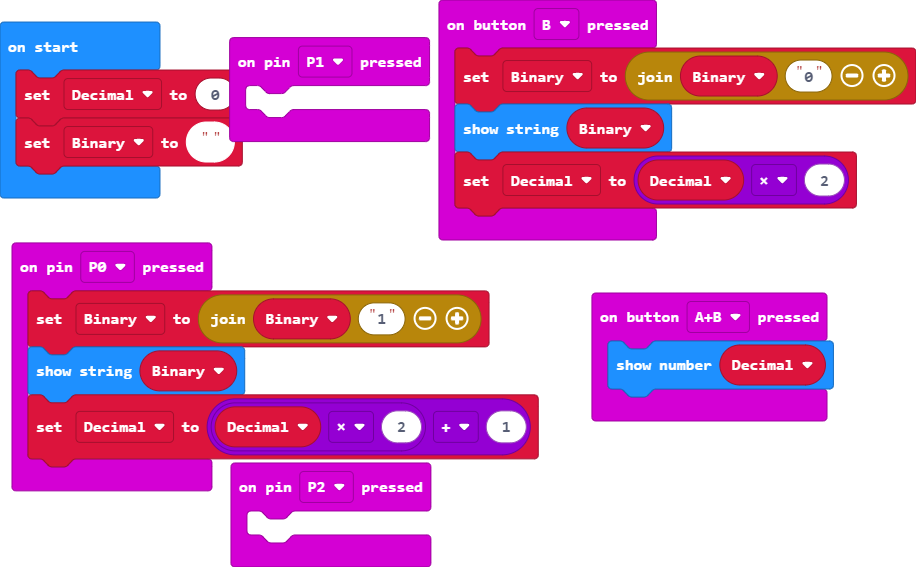
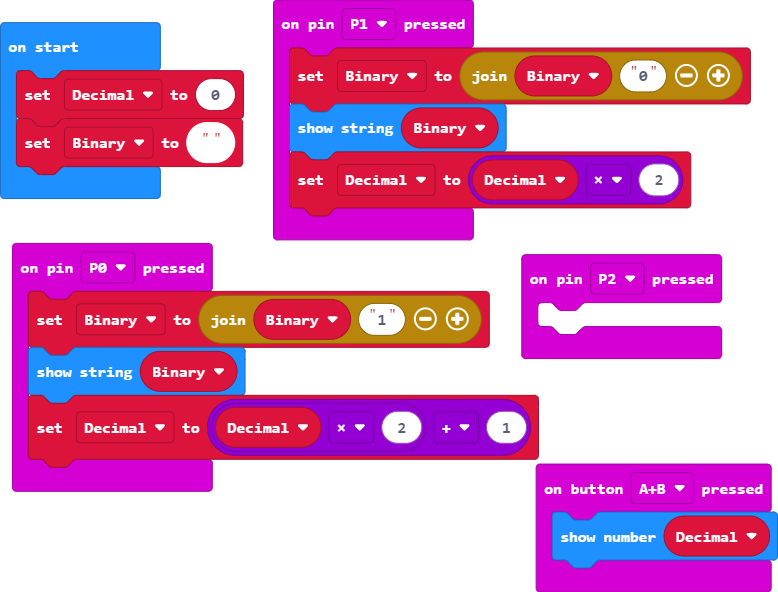
Update main.blocks, main.ts

diff --git a/main.ts b/main.ts
@@ -9,13 +9,10 @@ input.onPinPressed(TouchPin.P2, function () {
 input.onButtonPressed(Button.AB, function () {
     basic.showNumber(Decimal)
 })
-input.onButtonPressed(Button.B, function () {
+input.onPinPressed(TouchPin.P1, function () {
     Binary = "" + Binary + "0"
     basic.showString(Binary)
     Decimal = Decimal * 2
-})
-input.onPinPressed(TouchPin.P1, function () {
-	
 })
 let Binary = ""
 let Decimal = 0
